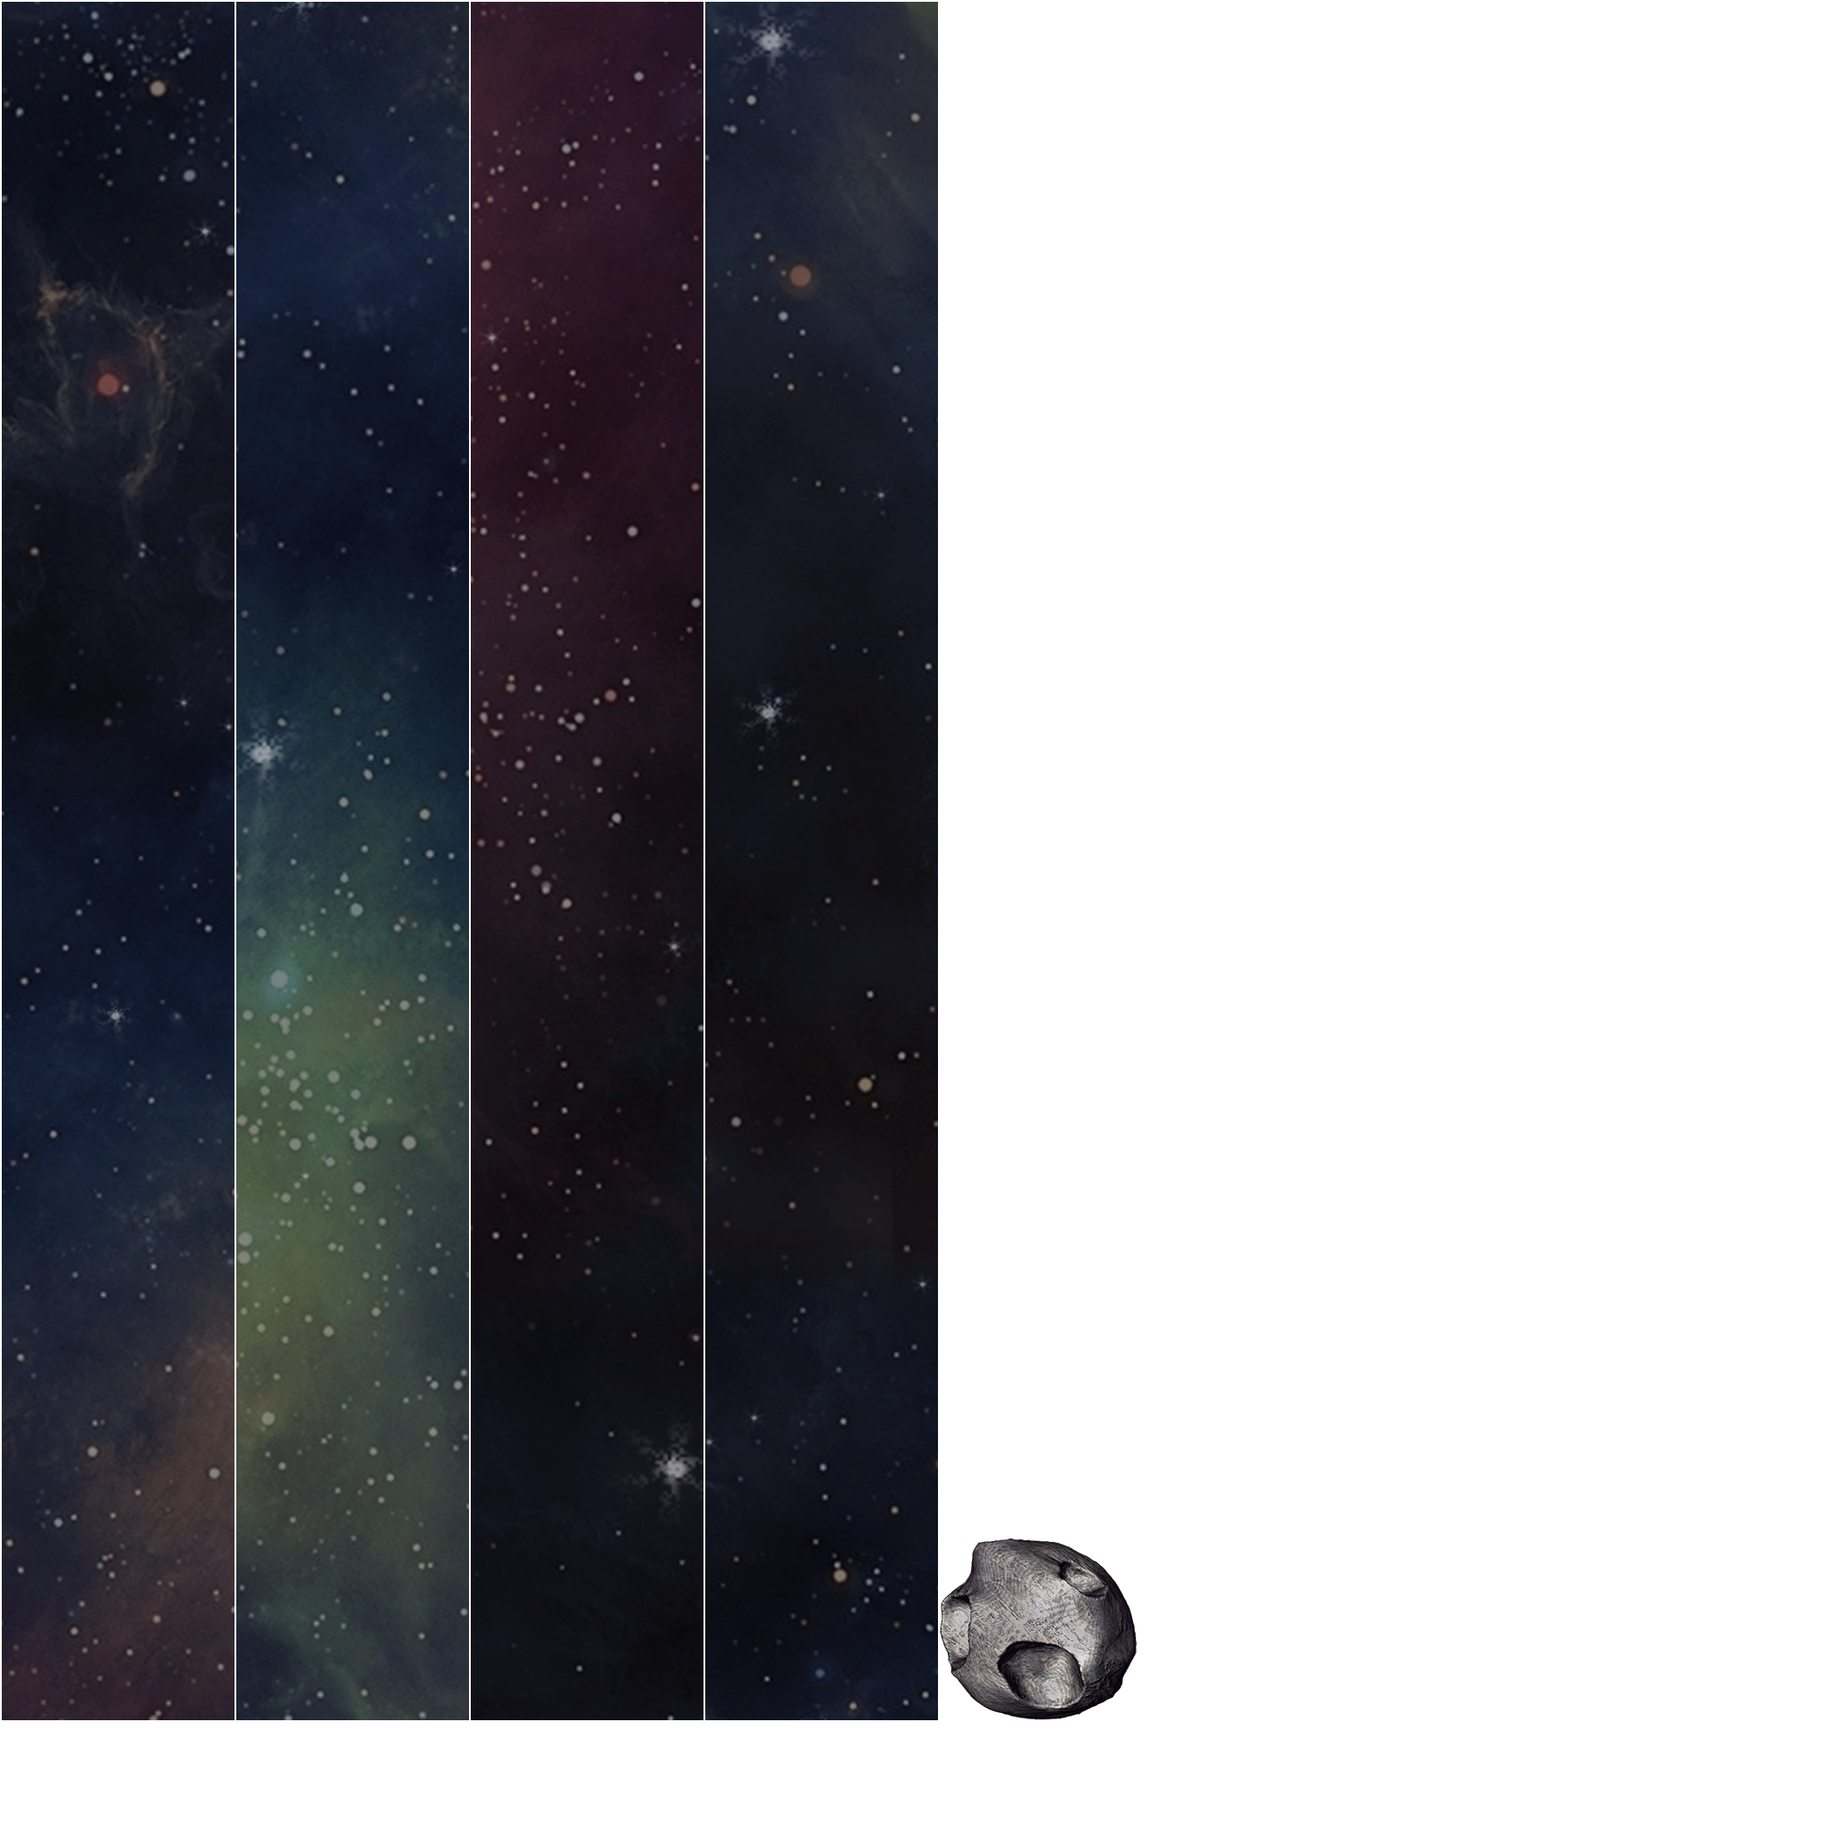
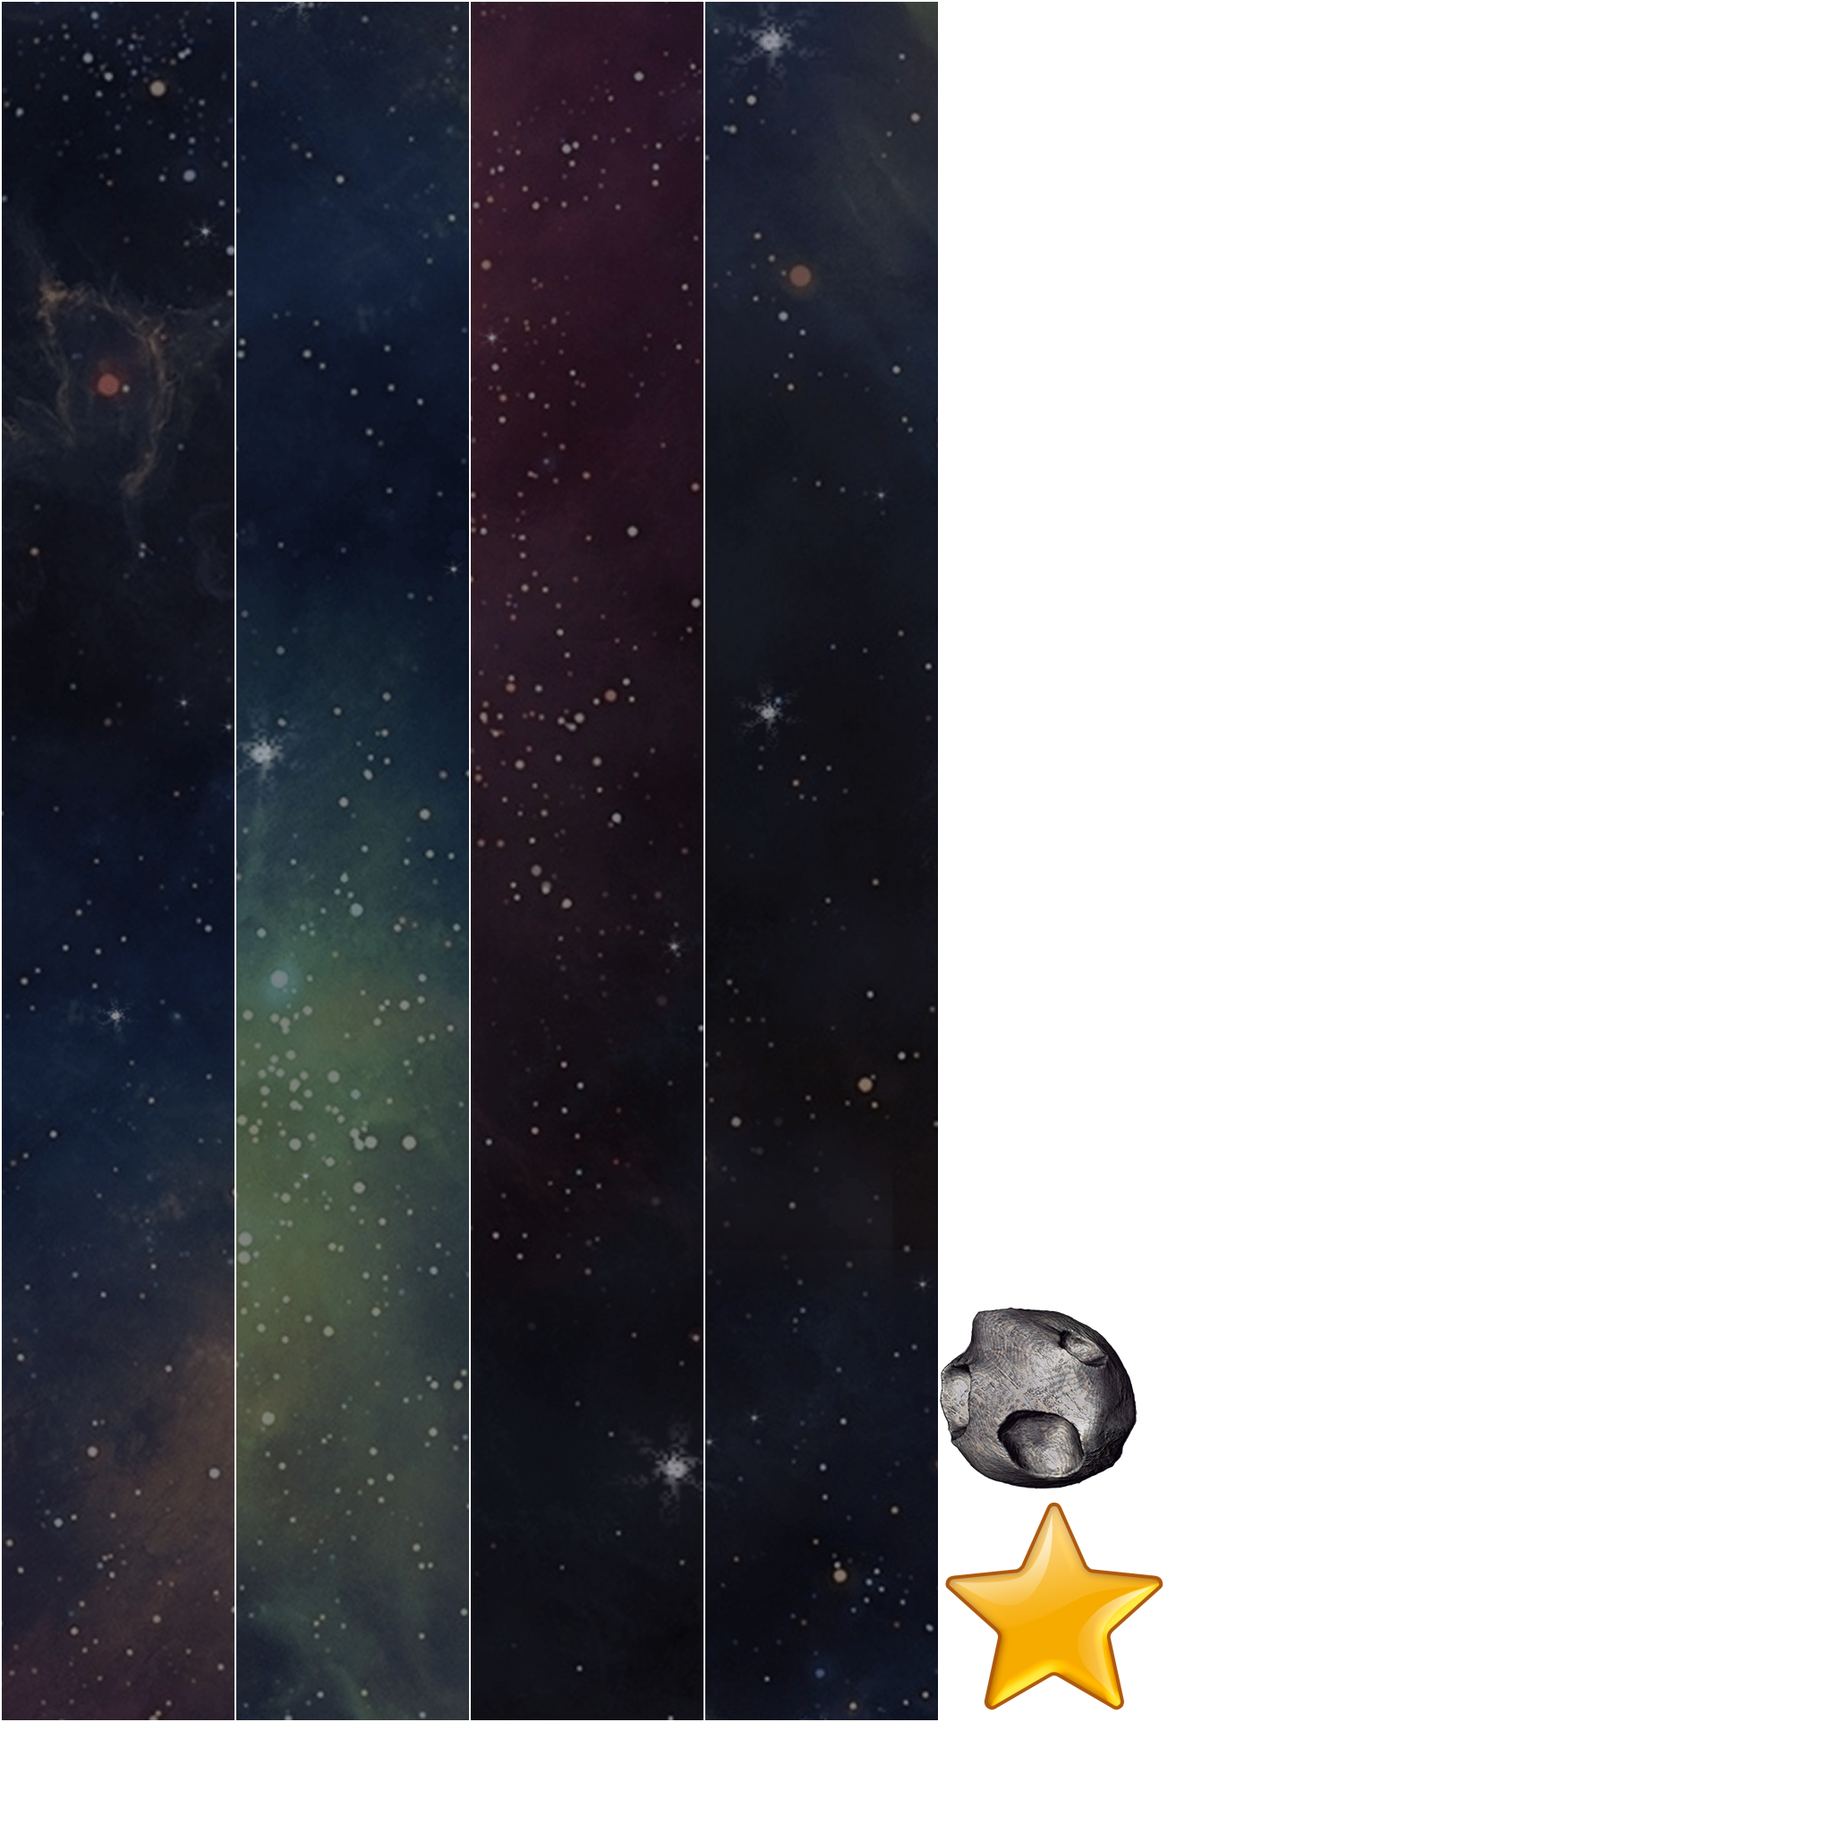
Сделал окно выбора уровня для стейджа

Changed region(s): [[0.5, 0.6875, 0.625, 0.9375]]

diff --git a/core/src/com/NullPointer/swipeos/Scripts/mainMenu/PlayButtonScript.java b/core/src/com/NullPointer/swipeos/Scripts/mainMenu/PlayButtonScript.java
@@ -4,9 +4,11 @@ import com.NullPointer.swipeos.utils.GameLoader;
 import com.badlogic.ashley.core.Entity;
 import com.badlogic.gdx.Gdx;
 import com.badlogic.gdx.math.Rectangle;
+import com.badlogic.gdx.math.Vector2;
 import com.badlogic.gdx.math.Vector3;
 import com.uwsoft.editor.renderer.components.DimensionsComponent;
 import com.uwsoft.editor.renderer.components.TransformComponent;
+import com.uwsoft.editor.renderer.components.label.LabelComponent;
 import com.uwsoft.editor.renderer.scripts.IScript;
 import com.uwsoft.editor.renderer.utils.ComponentRetriever;
 
@@ -17,15 +19,34 @@ public class PlayButtonScript implements IScript{
     private GameLoader gameLoader;
     private Entity entity;
     private Rectangle buttonRectangle;
+    private int stage;
+    private boolean isResizing;
     TransformComponent transformComponent;
     DimensionsComponent dimensionsComponent;
+    private float increment = 0.25f;
+    private float startWidth;
 
-    public PlayButtonScript(GameLoader gameLoader, Rectangle rectangle, Entity entity){
+    private Vector2 center = new Vector2(0,0);
+    private float size = 10f;
+    float moveTo = 0f;
+
+
+    public PlayButtonScript(GameLoader gameLoader,  Entity entity, float moveTo,
+                            int stage, boolean resizing){
         this.gameLoader = gameLoader;
-        this.buttonRectangle = rectangle;
         this.entity = entity;
         transformComponent = ComponentRetriever.get(entity, TransformComponent.class);
         dimensionsComponent = ComponentRetriever.get(entity, DimensionsComponent.class);
+
+        this.buttonRectangle = new Rectangle(transformComponent.x, transformComponent.y,
+                dimensionsComponent.width, dimensionsComponent.height);
+        this.moveTo = moveTo;
+        this.stage = stage;
+        this.isResizing = resizing;
+
+        startWidth = dimensionsComponent.width;
+        center.x = transformComponent.x + dimensionsComponent.width/2;
+        center.y = transformComponent.y + dimensionsComponent.height/2;
     }
 
     @Override
@@ -35,15 +56,57 @@ public class PlayButtonScript implements IScript{
     @Override
     public void act(float delta) {
         transformComponent.rotation += 20 * delta;
+        if(isResizing){
+            resize();
+        }
         if(Gdx.input.justTouched()){
             Vector3 pos = new Vector3(Gdx.input.getX(), Gdx.input.getY(), 0);
             gameLoader.getCameraManager().getCamera().unproject(pos);
             if(buttonRectangle.contains(pos.x,pos.y)){
-               gameLoader.getCameraManager().setCameraCoords(992f,360f);
+                for(int i = 1; i < 11; i++){
+                    Entity labelEntity = gameLoader.getGame().mainItemWrapper.getChild("label"+i).getEntity();
+                    LabelComponent labelComponent = labelEntity.getComponent(LabelComponent.class);
+                    int iTemp = i;
+                    switch (stage){
+                        case 1:
+                            break;
+                        case 2:
+                            iTemp+=10;
+                            break;
+                        case 3:
+                            iTemp+=20;
+                    }
+                    labelComponent.setText(""+iTemp);
+                }
+                gameLoader.getCameraManager().setCameraCoords(moveTo,360f);
+                gameLoader.getLevelLoader().setSelectedStage(stage);
             }
         }
     }
 
+
+    private void resize(){
+        if (increment > 0) {
+            if (dimensionsComponent.width <= startWidth + size) {
+                dimensionsComponent.width += increment;
+                dimensionsComponent.height += increment;
+                transformComponent.y = center.y - dimensionsComponent.height/2;
+                transformComponent.x = center.x - dimensionsComponent.width/2;
+            } else if (dimensionsComponent.width >= startWidth + size) {
+                increment = -increment;
+            }
+        }
+        else {
+            if (dimensionsComponent.width >= startWidth) {
+                dimensionsComponent.width += increment;
+                dimensionsComponent.height += increment;
+                transformComponent.y = center.y - dimensionsComponent.height/2;
+                transformComponent.x = center.x - dimensionsComponent.width/2;
+            } else if (dimensionsComponent.width <= startWidth) {
+                increment = -increment;
+            }
+        }
+    }
 
     @Override
     public void dispose() {

diff --git a/core/src/com/NullPointer/swipeos/utils/LevelLoader.java b/core/src/com/NullPointer/swipeos/utils/LevelLoader.java
@@ -12,14 +12,12 @@ import com.NullPointer.swipeos.Scripts.NextLevelButtonScript;
 import com.NullPointer.swipeos.Scripts.GameObjectsScripts.PortalScript;
 import com.NullPointer.swipeos.Scripts.mainMenu.BackGroundScript;
 import com.NullPointer.swipeos.Scripts.mainMenu.PlayButtonScript;
-import com.NullPointer.swipeos.Scripts.mainMenu.StartStageScript;
+import com.NullPointer.swipeos.Scripts.mainMenu.StartLevelScript;
 import com.badlogic.ashley.core.Entity;
-import com.badlogic.ashley.utils.ImmutableArray;
 import com.badlogic.gdx.Gdx;
 import com.badlogic.gdx.audio.Music;
 import com.badlogic.gdx.math.Rectangle;
 import com.badlogic.gdx.math.Vector3;
-import com.badlogic.gdx.utils.Logger;
 import com.uwsoft.editor.renderer.components.DimensionsComponent;
 import com.uwsoft.editor.renderer.components.MainItemComponent;
 import com.uwsoft.editor.renderer.components.NodeComponent;
@@ -30,10 +28,7 @@ import com.uwsoft.editor.renderer.utils.ComponentRetriever;
 
 
 import java.util.ArrayList;
-import java.util.Collection;
 import java.util.List;
-
-import sun.rmi.runtime.Log;
 
 /**
  * Created by Khaustov on 04.01.16.
@@ -48,6 +43,7 @@ public class LevelLoader {
     private Music menuMusic;
     private List<Asteroid> asteroids = new ArrayList<Asteroid>();
     private List<GameObject> gameObjectList = new ArrayList<GameObject>();
+    private int selectedStage;
 
 
     public LevelLoader(com.NullPointer.swipeos.engine.ItemWrapper itemWrapper, GameLoader gameLoader)
@@ -72,13 +68,23 @@ public class LevelLoader {
         dustTransformComponent.scaleY = 1.5f;
         dustTransformComponent.scaleX = 1.5f;
 
-        itemWrapper.getChild("playButton").addScript(new PlayButtonScript(gameLoader, playButtonRectangle, playButtonEntity));
+        itemWrapper.getChild("playButton").addScript(new PlayButtonScript(gameLoader, playButtonEntity,
+                992f, 0, false));
         itemWrapper.getChild("bg").addScript(new BackGroundScript());
         itemWrapper.getChild("bg1").addScript(new BackGroundScript());
+        itemWrapper.getChild("bg2").addScript(new BackGroundScript());
         Entity loadStage1Entity = itemWrapper.getChild("stage1Button").getEntity();
-        itemWrapper.getChild("stage1Button").addScript(new StartStageScript(gameLoader, loadStage1Entity, 1));
+        itemWrapper.getChild("stage1Button").addScript(new PlayButtonScript(gameLoader, loadStage1Entity,
+                -494f, 1, true));
         Entity loadStage2Entity = itemWrapper.getChild("stage2Button").getEntity();
-        itemWrapper.getChild("stage2Button").addScript(new StartStageScript(gameLoader, loadStage2Entity, 2));
+        itemWrapper.getChild("stage2Button").addScript(new PlayButtonScript(gameLoader, loadStage2Entity,
+                -494, 2, true));
+        for(int i = 1; i < 11; i++){
+            Entity currentEntity = itemWrapper.getChild(i + "_").getEntity();
+            ScriptComponent scriptComponent = new ScriptComponent();
+            scriptComponent.addScript(new StartLevelScript(gameLoader, currentEntity, i));
+            currentEntity.add(scriptComponent);
+        }
         menuMusic = Gdx.audio.newMusic(Gdx.files.internal("Calm.mp3"));
         menuMusic.setLooping(true);
         menuMusic.play();
@@ -280,5 +286,13 @@ public class LevelLoader {
 
     public Portal getLevelPortal(){
         return portal;
+    }
+
+    public void setSelectedStage(int stage){
+        this.selectedStage = stage;
+    }
+
+    public int getSelectedStage(){
+        return this.selectedStage;
     }
 }

diff --git a/core/src/com/NullPointer/swipeos/Scripts/mainMenu/StartLevelScript.java b/core/src/com/NullPointer/swipeos/Scripts/mainMenu/StartLevelScript.java
@@ -1,0 +1,80 @@
+package com.NullPointer.swipeos.Scripts.mainMenu;
+
+import com.NullPointer.swipeos.utils.GameLoader;
+import com.NullPointer.swipeos.utils.LevelLoader;
+import com.badlogic.ashley.core.Entity;
+import com.badlogic.gdx.Gdx;
+import com.badlogic.gdx.math.Rectangle;
+import com.badlogic.gdx.math.Vector3;
+import com.uwsoft.editor.renderer.components.DimensionsComponent;
+import com.uwsoft.editor.renderer.components.TransformComponent;
+import com.uwsoft.editor.renderer.scripts.IScript;
+import com.uwsoft.editor.renderer.utils.ComponentRetriever;
+
+/**
+ * Created by Khaustov on 11.04.16.
+ */
+public class StartLevelScript implements IScript {
+
+    Entity entity;
+    GameLoader gameLoader;
+    Rectangle buttonRectangle;
+    int level;
+
+    public StartLevelScript(GameLoader gameLoader, Entity entity, int level){
+        this.gameLoader = gameLoader;
+        this.entity = entity;
+        TransformComponent transformComponent = ComponentRetriever.get(entity, TransformComponent.class);
+        DimensionsComponent dimensionsComponent = ComponentRetriever.get(entity, DimensionsComponent.class);
+        this.buttonRectangle = new Rectangle(transformComponent.x, transformComponent.y,
+                dimensionsComponent.width, dimensionsComponent.height);
+        this.level = level;
+    }
+
+    @Override
+    public void init(Entity entity) {
+
+    }
+
+    @Override
+    public void act(float delta) {
+        if(Gdx.input.justTouched()){
+            Vector3 pos = new Vector3(Gdx.input.getX(), Gdx.input.getY(), 0);
+            gameLoader.getCameraManager().getCamera().unproject(pos);
+            if(buttonRectangle.contains(pos.x,pos.y)){
+                gameLoader.removeAllEntities();
+                int levelPack = 0;
+                if(level > 0 && level <= 5){
+                    levelPack = 1;
+                }
+                else if(level > 5 && level <= 10){
+                    levelPack = 2;
+                }
+                else {
+                    levelPack = 1;
+                }
+
+                switch (gameLoader.getLevelLoader().getSelectedStage()){
+                    case 1:
+                        break;
+                    case 2:
+                        level+=10;
+                        break;
+                    case 3:
+                        level+=20;
+                        break;
+                    default:
+                        break;
+                }
+
+                gameLoader.setSceneToLoad("levelPack"+levelPack);
+                gameLoader.setCurrentLevel(level);
+            }
+        }
+    }
+
+    @Override
+    public void dispose() {
+
+    }
+}

diff --git a/core/src/com/NullPointer/swipeos/Scripts/GameObjectsScripts/BossScript.java b/core/src/com/NullPointer/swipeos/Scripts/GameObjectsScripts/BossScript.java
@@ -2,11 +2,9 @@ package com.NullPointer.swipeos.Scripts.GameObjectsScripts;
 
 import com.NullPointer.swipeos.Objects.GameObject;
 import com.NullPointer.swipeos.Objects.Shape;
-import com.NullPointer.swipeos.engine.EntityFactory;
 import com.NullPointer.swipeos.utils.GameLoader;
 import com.badlogic.ashley.core.Entity;
 import com.badlogic.gdx.math.Circle;
-import com.badlogic.gdx.math.Rectangle;
 import com.uwsoft.editor.renderer.components.DimensionsComponent;
 import com.uwsoft.editor.renderer.components.ScriptComponent;
 import com.uwsoft.editor.renderer.components.TransformComponent;
@@ -144,6 +142,7 @@ public class BossScript extends GameObject implements IScript {
         }
     }
 
+    //Сделал создание в основном потоке, чтобы не крашилось
     private void spawnChild(){
         int chance = getRandomNumberInRange(0, 10);
         Entity childAnimationExampleEntity;
@@ -197,7 +196,7 @@ public class BossScript extends GameObject implements IScript {
 
     public void getDamage(){
         --health;
-        if(health <= 4){
+        if(health <= 0){
             bossEntity.remove(ScriptComponent.class);
             gameLoader.getGame().mainSceneLoader.getEngine().removeEntity(bossEntity);
             timer.cancel();
@@ -209,5 +208,4 @@ public class BossScript extends GameObject implements IScript {
     public void setCreateChildNeeded(){
         needToCreateChild = true;
     }
-
 }

diff --git a/core/src/com/NullPointer/swipeos/utils/GameLoader.java b/core/src/com/NullPointer/swipeos/utils/GameLoader.java
@@ -34,7 +34,6 @@ public class GameLoader {
         game.mainSceneLoader = new SceneLoader();
         game.mainSceneLoader.loadScene("MainScene", game.mainViewPort);
         game.mainItemWrapper = new com.NullPointer.swipeos.engine.ItemWrapper(game.mainSceneLoader.getRoot());
-        //// TODO: добавить загрузку последнего уровня для игрока
         levelLoader = new LevelLoader(game.mainItemWrapper, this);
         levelLoader.loadMainScreen();
 
@@ -47,7 +46,6 @@ public class GameLoader {
     public void loadStage(){
         game.mainSceneLoader.loadScene(sceneToLoad, game.mainViewPort, this);
         game.mainItemWrapper = new com.NullPointer.swipeos.engine.ItemWrapper(game.mainSceneLoader.getRoot());
-        //// TODO: добавить загрузку последнего уровня для игрока
         levelLoader = new LevelLoader(game.mainItemWrapper, this);
         levelLoader.loadLevel(currentLevel);
         playerScript = new PlayerScript(levelLoader, this);
